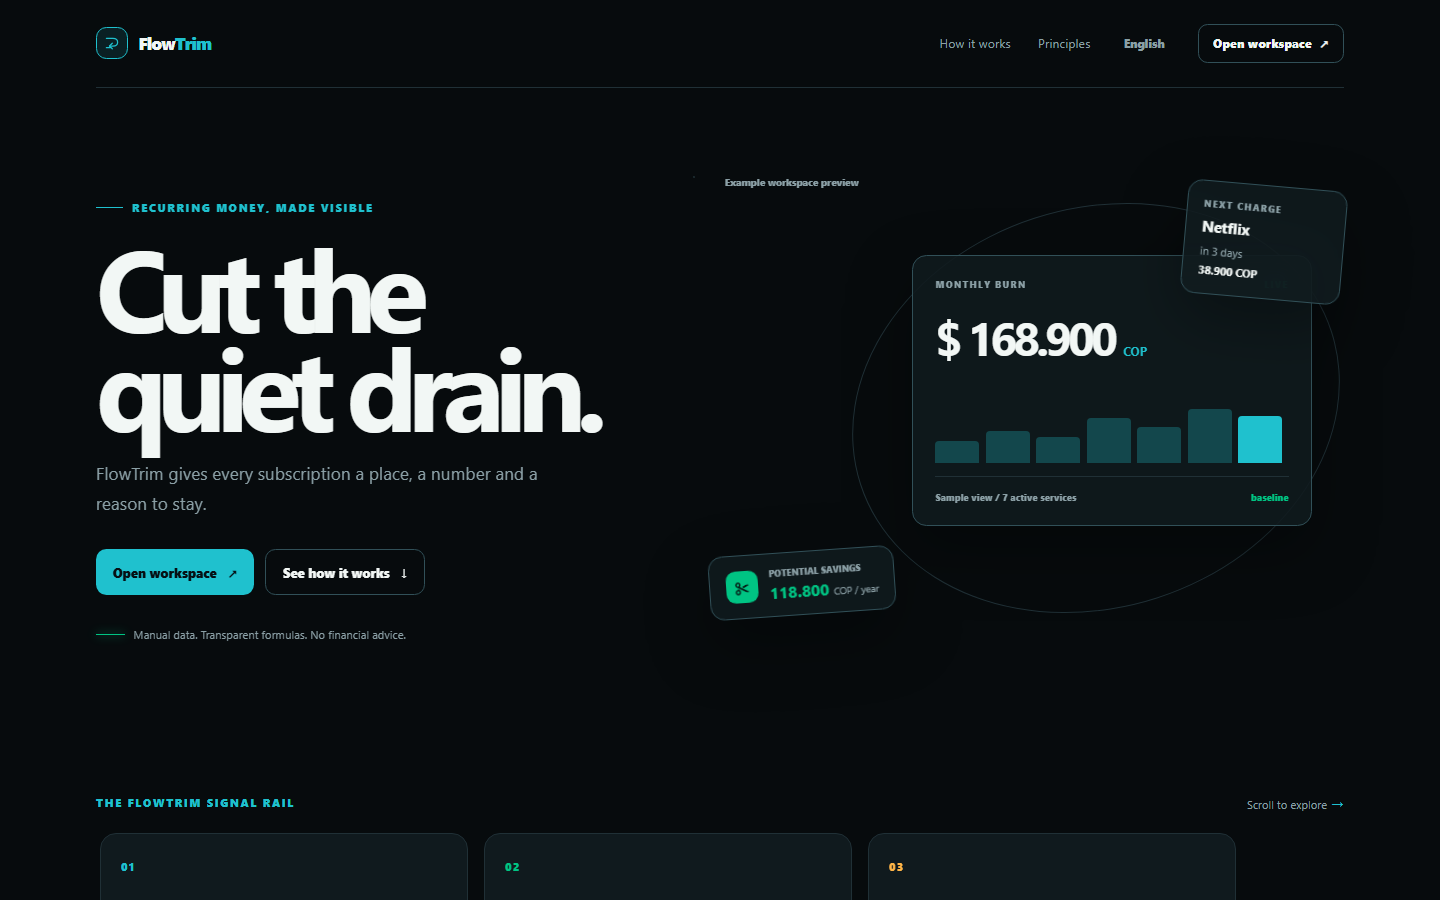
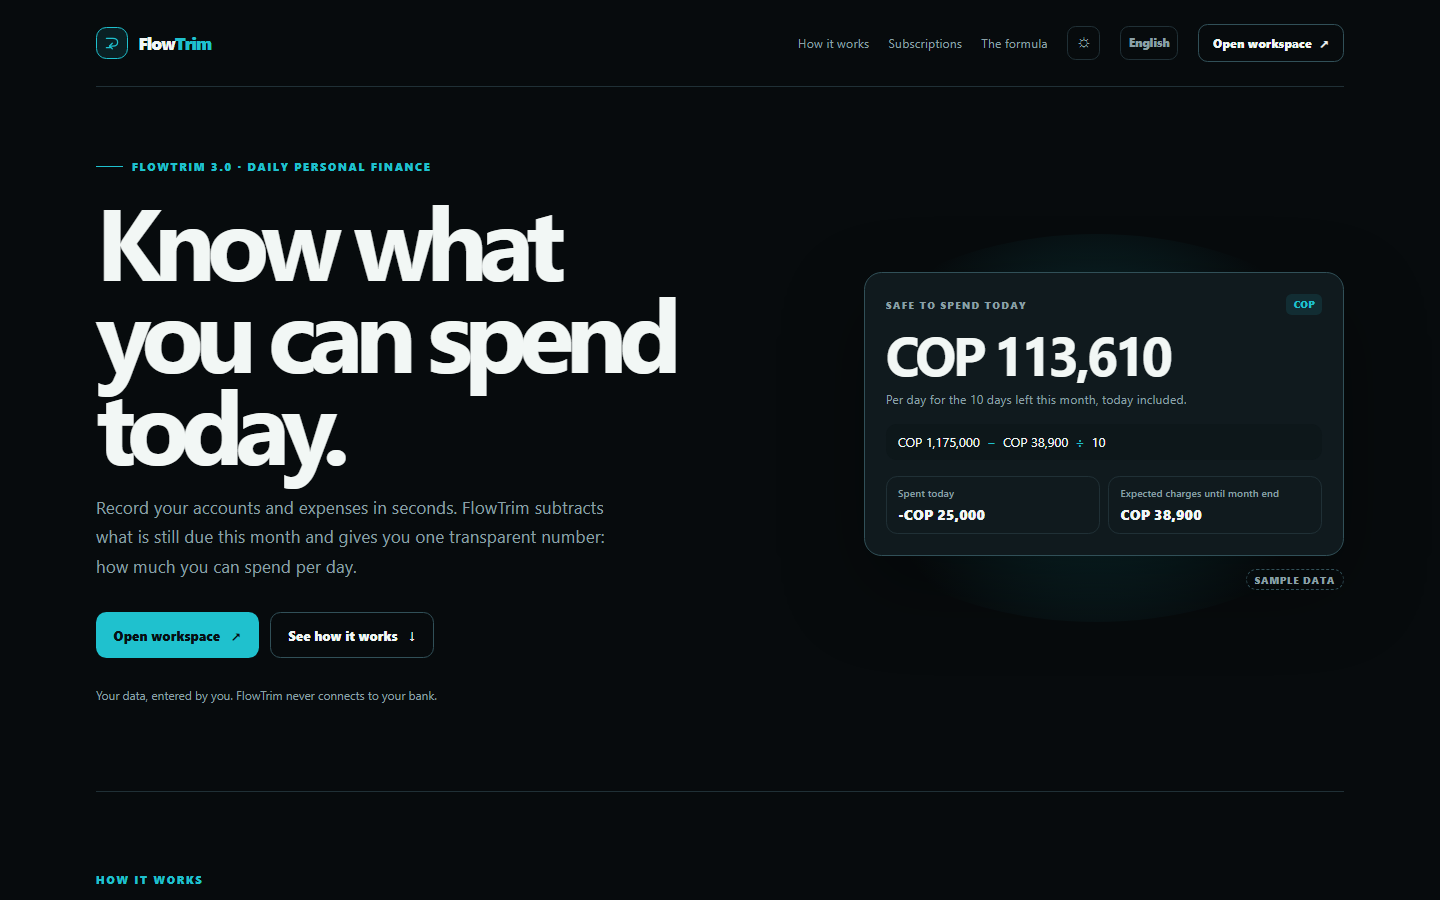
docs(HU-71): add the new landing screenshots and the gsap note

diff --git a/README.md b/README.md
@@ -7,7 +7,7 @@
 [![Frontend CI](https://github.com/Andermc10/FlowTrim-frontend/actions/workflows/ci.yml/badge.svg?branch=main)](https://github.com/Andermc10/FlowTrim-frontend/actions/workflows/ci.yml)
 ![Angular 22](https://img.shields.io/badge/Angular-22-DD0031?logo=angular&logoColor=white)
 ![TypeScript strict](https://img.shields.io/badge/TypeScript-strict-3178C6?logo=typescript&logoColor=white)
-![Unit tests](https://img.shields.io/badge/unit%20tests-204%20passing-2ea44f)
+![Unit tests](https://img.shields.io/badge/unit%20tests-218%20passing-2ea44f)
 ![Playwright](https://img.shields.io/badge/e2e-Playwright-2EAD33?logo=playwright&logoColor=white)
 
 [API](https://github.com/Andermc10/FlowTrim-backend) · [Specs & backlog](https://github.com/Andermc10/FlowTrim-tracker) · [CSV format](https://github.com/Andermc10/FlowTrim-tracker/blob/main/docs/SUBSCRIPTION-CSV-FORMAT.md)
@@ -36,11 +36,12 @@ FlowTrim is a manual-data portfolio project: it never connects to banks, records
 
 ## Screenshots
 
-> Dark theme with fictional data.
+> Dark theme with fictional data, unless noted.
 
 | | |
 |---|---|
-| ![Landing](docs/screenshots/landing.png) | ![Subscriptions](docs/screenshots/subscriptions.png) |
+| ![Landing](docs/screenshots/landing.png) | ![Landing, light theme](docs/screenshots/landing-light.png) |
+| ![Landing: the daily story](docs/screenshots/landing-story.png) | ![Subscriptions](docs/screenshots/subscriptions.png) |
 | ![Upcoming charges](docs/screenshots/upcoming.png) | ![Analytics](docs/screenshots/analytics.png) |
 | ![Simulator](docs/screenshots/simulator.png) | ![Insights](docs/screenshots/insights.png) |
 | ![CSV import preview](docs/screenshots/import.png) | |
@@ -49,7 +50,8 @@ FlowTrim is a manual-data portfolio project: it never connects to banks, records
 
 - **Angular 22**: standalone components, signals, OnPush everywhere, lazy routes; strict TypeScript 6 and SCSS.
 - **Carbon Signal** design system with CSS custom properties: persisted light and dark themes, reduced-motion support and no UI library.
-- **Chart.js 4** behind a reusable chart component; every workspace screen is lazy (initial bundle ≈ 375 kB).
+- **Chart.js 4** behind a reusable chart component; every workspace screen is lazy (initial bundle ≈ 433 kB).
+- **GSAP 3.15 + ScrollTrigger** only on the landing, loaded with a dynamic `import()` after the first render (two lazy chunks, never in the initial bundle and never requested with reduced motion). The landing is complete without it: on desktop the daily story pins and scrubs through four steps, on phones the steps simply reveal.
 - **English and Spanish** in the client, with a test that keeps both languages' keys in sync.
 - **OIDC Authorization Code + PKCE**: no passwords in the app, token in `sessionStorage`, guarded `/app/**`.
 - **Vitest** for unit tests and **Playwright** for the critical browser flow.
@@ -119,7 +121,7 @@ To use your own Auth0 tenant, create a **Single Page Application** with callback
 src/app/
   core/       auth (guard, interceptors, PKCE), i18n, theme, money/date formatting, files,
               forms (shared validators, field errors), ui (modal, toast, chart, icon, sound, back-to-top)
-  features/   landing · auth · subscriptions · summary · simulator · analytics · insights · reports · imports
+  features/   landing · auth · today · transactions · accounts · categories · subscriptions · summary · simulator · analytics · insights · reports · imports
 src/styles.scss   design tokens and shared building blocks (buttons, banners, data tables)
 e2e/              Playwright flow, local OIDC test issuer, static SPA server
 ```
